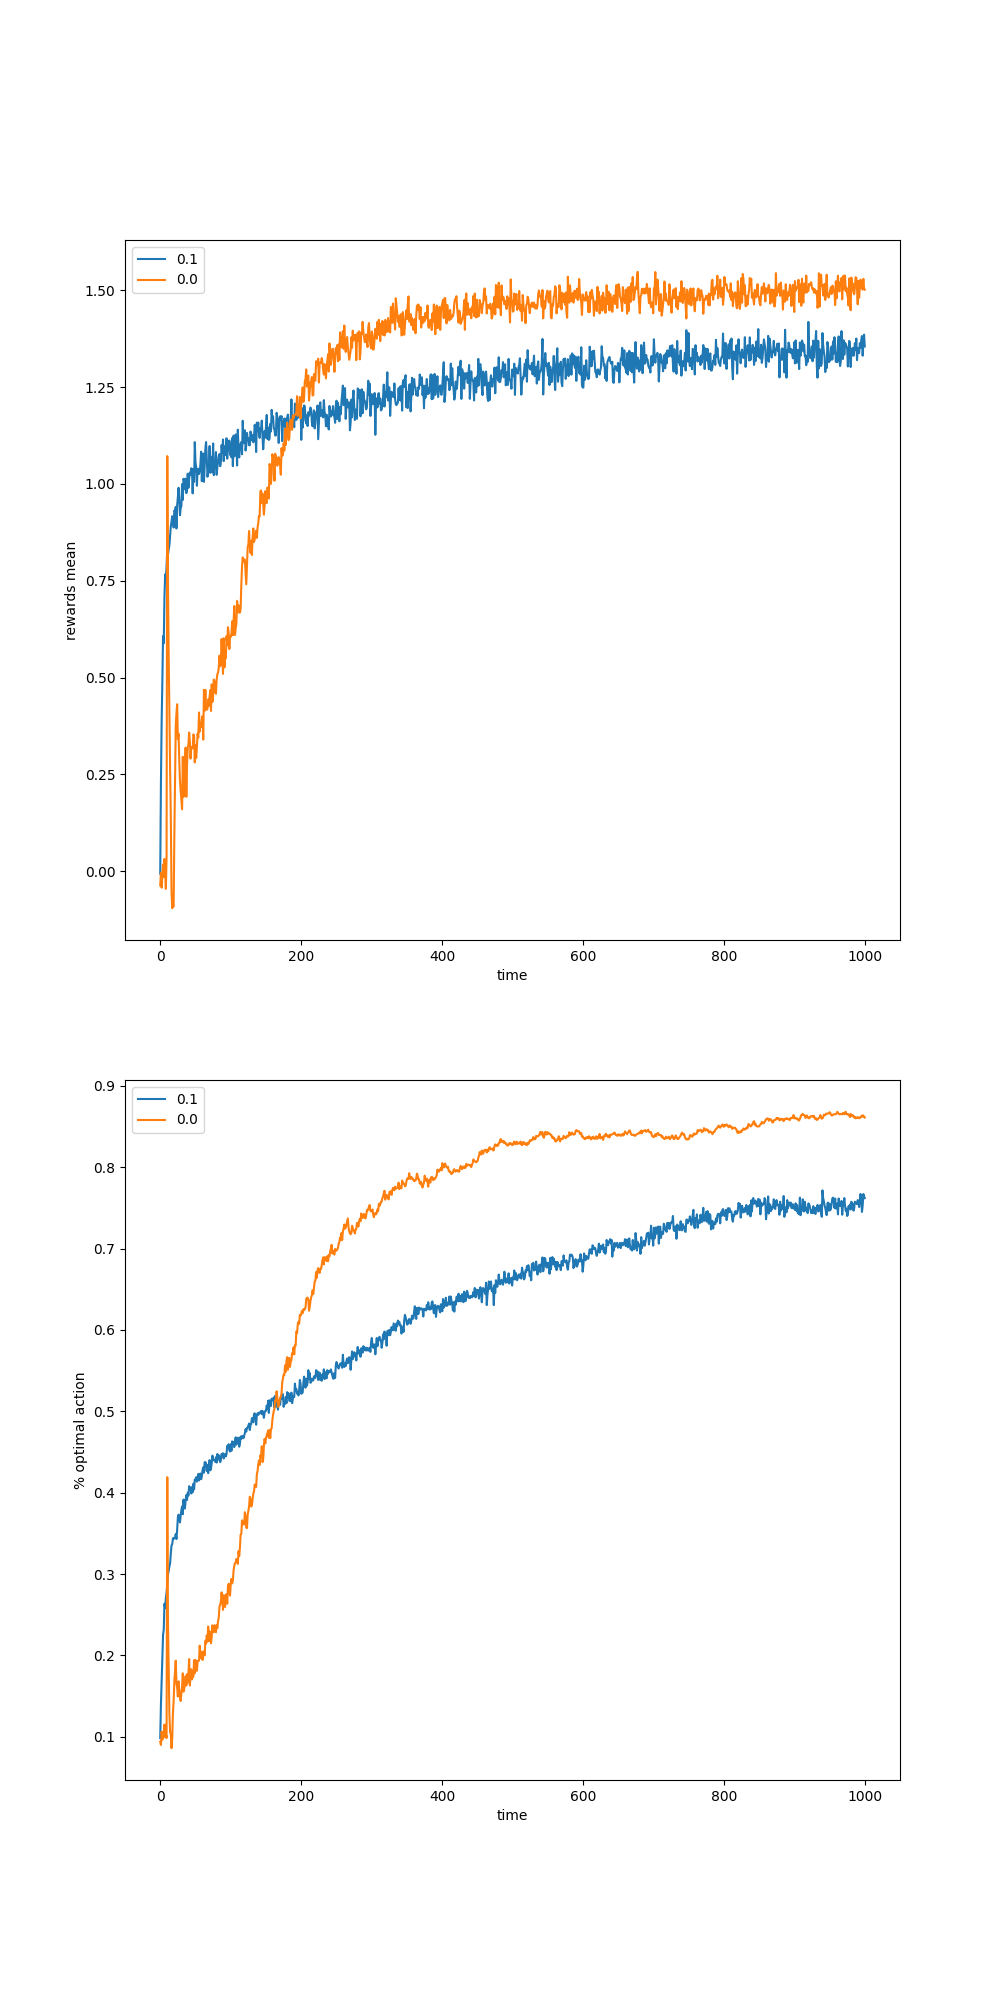
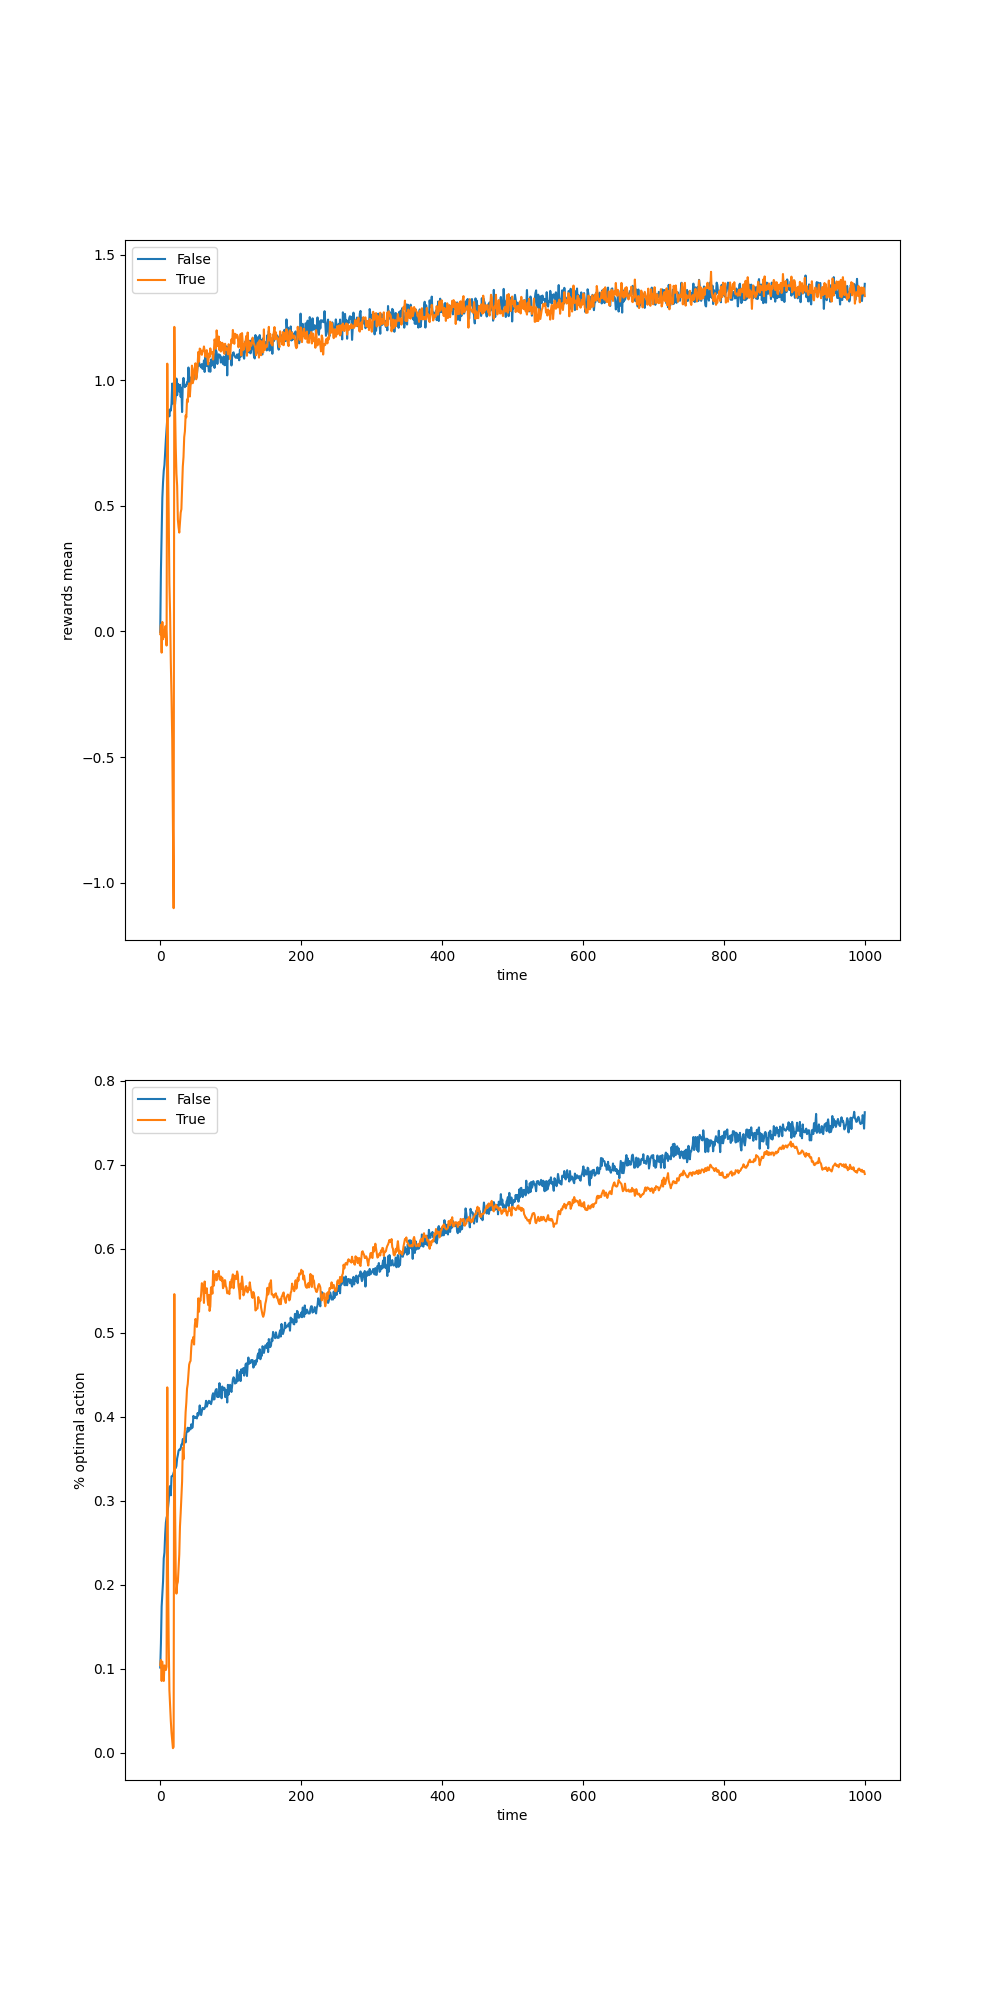
...

diff --git a/Book Sutton/chapter02/section_2_7.py b/Book Sutton/chapter02/section_2_7.py
@@ -8,20 +8,23 @@ matplotlib.use('Agg')
 
 # noinspection PyAttributeOutsideInit
 class Bandit:
-    def __init__(self, k_arms, epsilon, is_optimistic, alpha):
+    def __init__(self, k_arms, epsilon, is_ucb, alpha):
         self.k = k_arms
         self.epsilon = epsilon
-        self.is_optimistic = is_optimistic
+        self.is_ucb = is_ucb
         self.alpha = alpha
 
     def reset(self):
         self.q_true = np.random.randn(self.k)
-        self.q_estimated = np.zeros(self.k) if not self.is_optimistic else np.ones(self.k) * 5.0
+        self.q_estimated = np.zeros(self.k)
         self.action_count = np.zeros(self.k)
         self.best_action = np.argmax(self.q_true)
         self.t = 0
 
     def act(self):
+        if self.is_ucb:
+            ucb = self.q_estimated + 2.0 * np.sqrt(np.log(self.t + 1)/(self.action_count + 1e-5))
+            return np.argmax(ucb)
         if np.random.rand() < self.epsilon:
             return np.random.choice(np.arange(self.k))
         # if more than one state has similar value, choose one of them randomly
@@ -54,24 +57,23 @@ def simulate(bandits, runs, time):
 
 
 def fig_2_2():
-    epsilons = [0.1, 0.0]
-    is_optimistic = [False, True]
-    bandits = [Bandit(k_arms=10, epsilon=e, is_optimistic=o, alpha=0.1) for e, o in zip(epsilons, is_optimistic)]
+    is_ucb = [False, True]
+    bandits = [Bandit(k_arms=10, epsilon=0.1, is_ucb=u, alpha=0.1) for u in is_ucb]
     best_action_counts, rewards = simulate(bandits, runs=2000, time=1000)
     plt.figure(figsize=(10, 20))
     plt.subplot(2, 1, 1)
-    for e, rew in zip(epsilons, rewards):
+    for e, rew in zip(is_ucb, rewards):
         plt.plot(rew, label=e)
     plt.xlabel("time")
     plt.ylabel("rewards mean")
     plt.legend()
     plt.subplot(2, 1, 2)
-    for e, a in zip(epsilons, best_action_counts):
+    for e, a in zip(is_ucb, best_action_counts):
         plt.plot(a, label=e)
     plt.xlabel("time")
     plt.ylabel("% optimal action")
     plt.legend()
-    plt.savefig('../images/fig_2_6.png')
+    plt.savefig('../images/fig_2_7.png')
 
 
 if __name__ == '__main__':

diff --git a/Book Sutton/chapter02/practicing.py b/Book Sutton/chapter02/practicing.py
@@ -1,23 +1,23 @@
 import numpy as np
-
-arr = np.array([[[1, 2, 3],
-                 [1, 2, 3],
-                 [1, 2, 3],
-                 [1, 2, 3],
-                 [1, 2, 3],
-                 ],
-                [[1, 2, 3],
-                 [1, 2, 3],
-                 [1, 2, 3],
-                 [1, 2, 3],
-                 [1, 2, 3],
-                 ],
-                [[1, 2, 3],
-                 [1, 2, 3],
-                 [1, 2, 3],
-                 [1, 2, 3],
-                 [1, 2, 3],
-                 ]])
+#
+# arr = np.array([[[1, 2, 3],
+#                  [1, 2, 3],
+#                  [1, 2, 3],
+#                  [1, 2, 3],
+#                  [1, 2, 3],
+#                  ],
+#                 [[1, 2, 3],
+#                  [1, 2, 3],
+#                  [1, 2, 3],
+#                  [1, 2, 3],
+#                  [1, 2, 3],
+#                  ],
+#                 [[1, 2, 3],
+#                  [1, 2, 3],
+#                  [1, 2, 3],
+#                  [1, 2, 3],
+#                  [1, 2, 3],
+#                  ]])
 # result = np.where(arr < 3)
 # print([(a, b, c) for a, b, c in zip(result[0], result[1], result[2])])
 # print(arr[result])
@@ -27,4 +27,6 @@ arr = np.array([[[1, 2, 3],
 # print(mean)
 # print(mean.shape)
 b = np.array([1, 2, 3, 3, 2, 7, 7])
-print(np.argmax(b))
+# print(np.argmax(b))
+
+print(np.maximum(b, 2))
